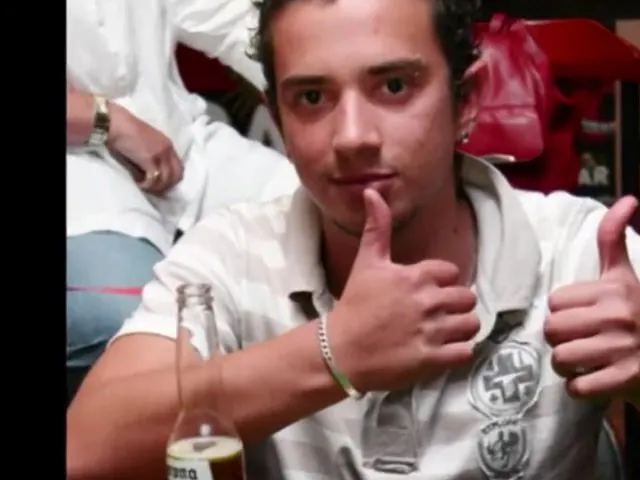
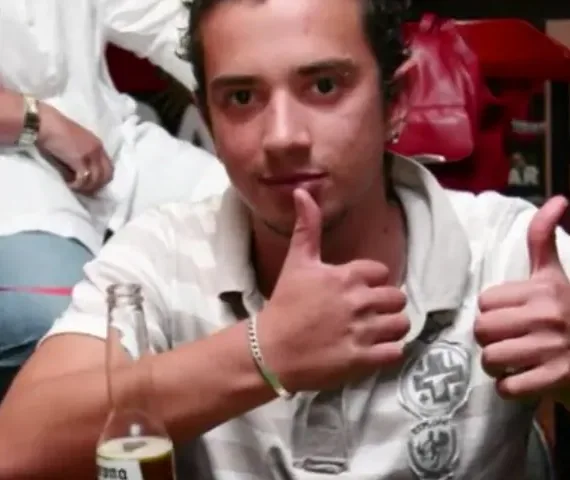
Chapter 6 photo removed, opener positions, Chapter 8 crop

diff --git a/chapter-06/index.html b/chapter-06/index.html
@@ -275,13 +275,13 @@ dialog.chlist::backdrop{background:rgba(8,10,14,.6)}
 
 <main>
   <section class="opener" aria-labelledby="chTitle">
-    <img src="assets/ch06-04.webp" alt="" style="object-position:40% 35%">
+    <img src="assets/ch06-02.webp" alt="" style="object-position:40% 30%">
     <div class="wrap">
       <p class="eyebrow">Chapter 6 &nbsp;·&nbsp; Free to read</p>
       <h1 id="chTitle">Words from the Ward</h1>
       <p class="meta"><span class="stamp">'06 7</span><span>June–July 2006 · Concord, NSW</span><span>5 minute read</span></p>
     </div>
-    <span class="credit">The ones who stayed</span>
+    <span class="credit">Beanie on, out anyway</span>
   </section>
 
   <article class="story" id="story">
@@ -290,7 +290,7 @@ dialog.chlist::backdrop{background:rgba(8,10,14,.6)}
 <p>They came to visit once, which I appreciated. Then they asked me to drive them to a party so they could drink. I was sick and weak and wrecked, but I did it anyway. After that, the distance just grew. It was what it was.</p>
 <p>But there was a small group, guys and girls I hadn’t been that close to before any of this, who quietly became my rock. We weren’t tight before chemo. After it, we were. On the days I was well enough to get out of the house, they were there. No fuss, no fake cheerfulness. Just company. One of them came over a couple of times and sat with me for the whole day watching Friends. Hours of it, back to back.</p>
 <blockquote class="pull"><p>He didn’t have to do that. He just turned up and stayed. It meant the world to me. Thank you, bud.</p></blockquote>
-<div class="scatter"><figure class="ph t1"><button class="zoom" type="button" data-full="assets/ch06-02.webp" data-cap="Beanie on, out anyway."><img src="assets/ch06-02.webp" alt="Nathan in a beanie with a mate at night" loading="lazy"></button><figcaption>Beanie on, out anyway.</figcaption></figure><figure class="ph t2"><button class="zoom" type="button" data-full="assets/ch06-03.webp" data-cap="On a good day."><img src="assets/ch06-03.webp" alt="Nathan in a beanie with a friend at a party" loading="lazy"></button><figcaption>On a good day.</figcaption></figure><figure class="ph t3"><button class="zoom" type="button" data-full="assets/ch06-04.webp" data-cap="The ones who stayed."><img src="assets/ch06-04.webp" alt="Nathan, bald, with two friends" loading="lazy"></button><figcaption>The ones who stayed.</figcaption></figure></div>
+<div class="scatter" style="grid-template-columns:repeat(2,minmax(0,1fr));max-width:30rem;margin-inline:auto"><figure class="ph t1"><button class="zoom" type="button" data-full="assets/ch06-02.webp" data-cap="Beanie on, out anyway."><img src="assets/ch06-02.webp" alt="Nathan in a beanie with a mate at night" loading="lazy"></button><figcaption>Beanie on, out anyway.</figcaption></figure><figure class="ph t2"><button class="zoom" type="button" data-full="assets/ch06-03.webp" data-cap="On a good day."><img src="assets/ch06-03.webp" alt="Nathan in a beanie with a friend at a party" loading="lazy"></button><figcaption>On a good day.</figcaption></figure></div>
 <p>The house went quiet. The parties stopped. Friday and Saturday nights just ended, almost overnight.</p>
 <p>Sundays were the worst. I’d shut my bedroom door and sit in the quiet, and through the wall I could hear the asado going on in the backyard. Abuelo’s voice. Abuela’s laugh. The crack of dominoes on the table. Meat sizzling on the coals. Mum hadn’t told my grandparents about the cancer. They were too old and too fragile for it. So I stayed behind my door and let the asado carry on without me. I’d open up Counter-Strike and lose myself in it for hours.</p>
 <p>But all that quiet, all that time stuck on my own, ended up giving me something I didn’t expect.</p>

diff --git a/chapter-11/index.html b/chapter-11/index.html
@@ -277,7 +277,7 @@ dialog.chlist::backdrop{background:rgba(8,10,14,.6)}
 
 <main>
   <section class="opener" aria-labelledby="chTitle">
-    <img src="assets/ch11-02-800.webp" srcset="assets/ch11-02-800.webp 800w, assets/ch11-02.webp 1400w" sizes="100vw" alt="" style="object-position:50% 55%">
+    <img src="assets/ch11-02-800.webp" srcset="assets/ch11-02-800.webp 800w, assets/ch11-02.webp 1400w" sizes="100vw" alt="" style="object-position:50% 100%">
     <div class="wrap">
       <p class="eyebrow">Chapter 11 &nbsp;·&nbsp; Full book</p>
       <h1 id="chTitle">Lost in Auckland</h1>

diff --git a/chapter-05/index.html b/chapter-05/index.html
@@ -279,7 +279,7 @@ dialog.chlist::backdrop{background:rgba(8,10,14,.6)}
 
 <main>
   <section class="opener" aria-labelledby="chTitle">
-    <img src="assets/ch05-10-800.webp" srcset="assets/ch05-10-800.webp 800w, assets/ch05-10.webp 1400w" sizes="100vw" alt="" style="object-position:50% 45%">
+    <img src="assets/ch05-10-800.webp" srcset="assets/ch05-10-800.webp 800w, assets/ch05-10.webp 1400w" sizes="100vw" alt="" style="object-position:50% 8%">
     <div class="wrap">
       <p class="eyebrow">Chapter 5 &nbsp;·&nbsp; Free to read</p>
       <h1 id="chTitle">The Grind</h1>

diff --git a/chapter-07/index.html b/chapter-07/index.html
@@ -279,7 +279,7 @@ dialog.chlist::backdrop{background:rgba(8,10,14,.6)}
 
 <main>
   <section class="opener" aria-labelledby="chTitle">
-    <img src="assets/ch07-04.webp" alt="" style="object-position:70% 30%">
+    <img src="assets/ch07-04.webp" alt="" style="object-position:60% 88%">
     <div class="wrap">
       <p class="eyebrow">Chapter 7 &nbsp;·&nbsp; Free to read</p>
       <h1 id="chTitle">The Extra Cycle</h1>
